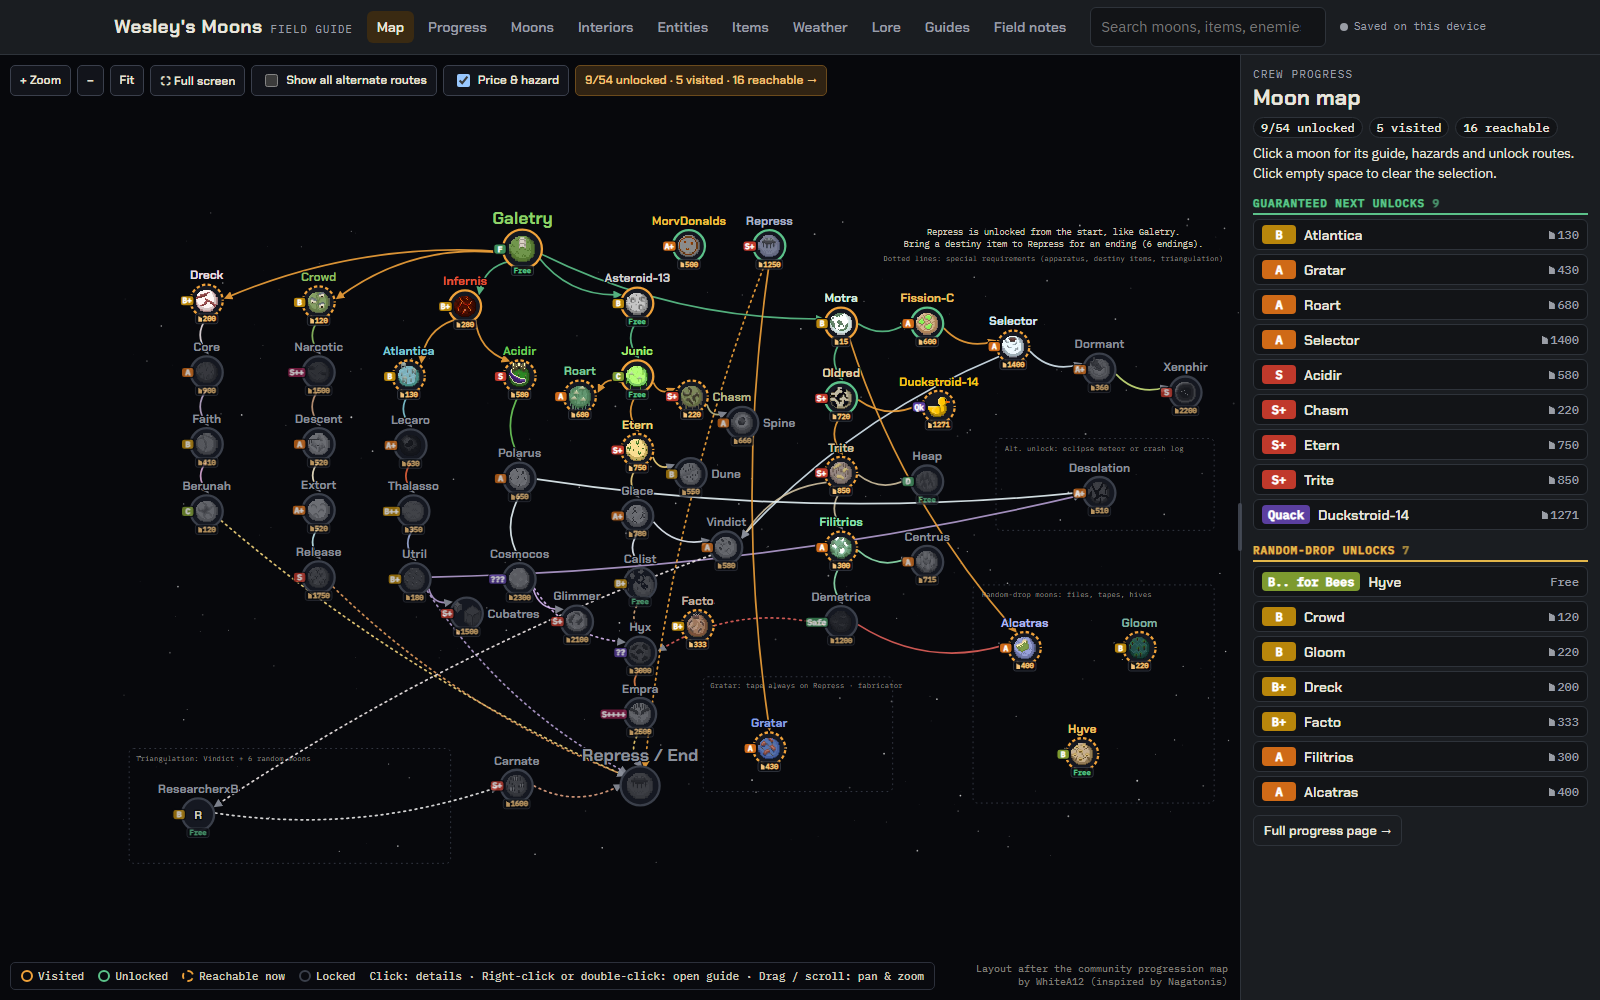
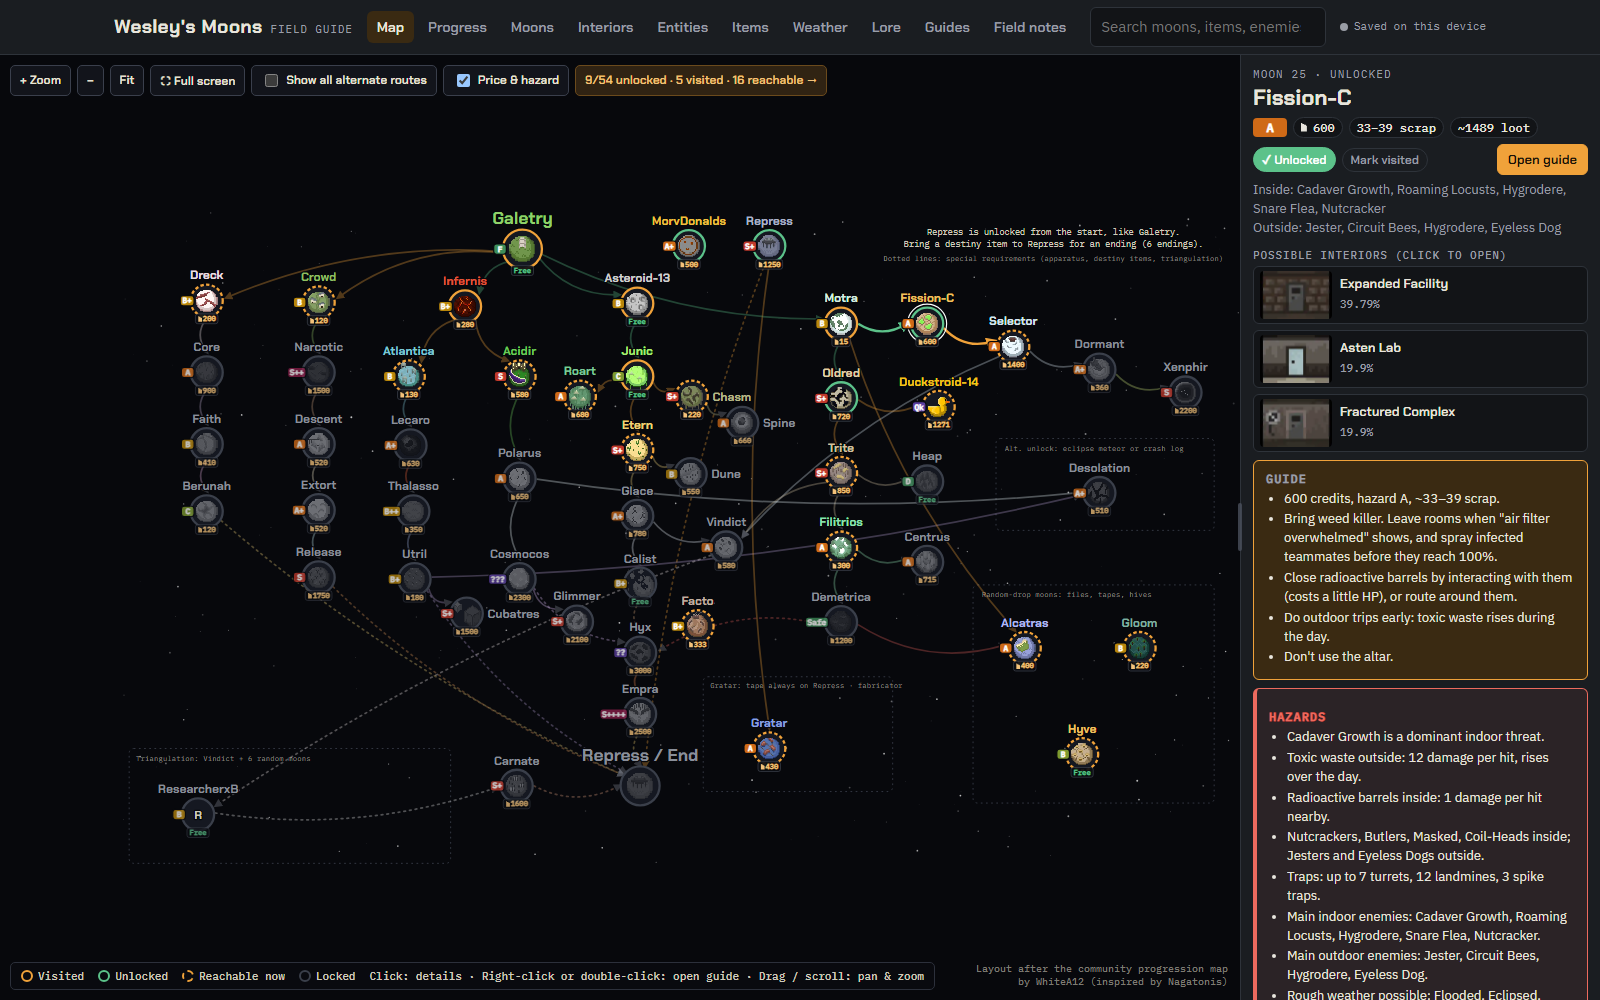
README: map screenshot with a moon selected, add progress screenshot

diff --git a/README.md b/README.md
@@ -4,7 +4,9 @@ An interactive, single-file field guide for the Lethal Company mod **Wesley's Mo
 
 **Live page:** https://el-bad.github.io/wesleys-moons-guide/
 
-[![Moon map with unlock tracker](screenshot.png)](https://el-bad.github.io/wesleys-moons-guide/)
+[![Moon map with a moon selected](screenshot.png)](https://el-bad.github.io/wesleys-moons-guide/)
+
+[![Progress page: unlock tracker, goals checklist and next unlocks](screenshot-progress.png)](https://el-bad.github.io/wesleys-moons-guide/#progress)
 
 The whole guide is one HTML file (`Wesleys-Moons-Field-Guide.html`) with images embedded, so it also works offline. Progress is saved in your browser.
 
